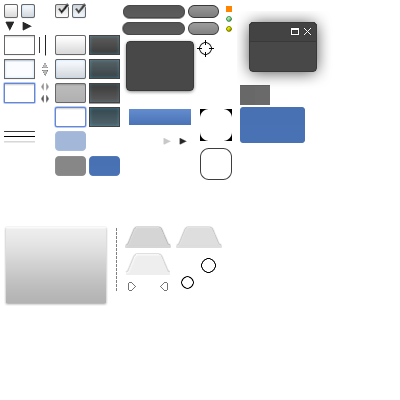
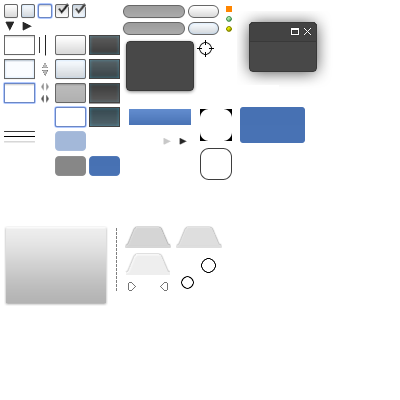
[UI] Checkbox implement

Changed region(s): [[0.3, 0.0, 0.57, 0.09], [0.6, 0.21, 0.69, 0.27], [0.09, 0.0, 0.15, 0.06]]

diff --git a/src/ui/checkbox.cpp b/src/ui/checkbox.cpp
@@ -1,0 +1,63 @@
+/*
+ * E2DIT - is a 2D Map Editor to create a levels for 2d games
+ * Copyright (C) 2015 Kabylin Andrey <andrey@kabylin.ru>
+
+ * This file is part of E2DIT-UI.
+
+ * E2DIT-UI is free library: you can redistribute it and/or modify
+ * it under the terms of the GNU Lesser General Public License as
+ * published by the Free Software Foundation, either version 3 of
+ * the License, or (at your option) any later version.
+
+ * E2DIT-UI is distributed in the hope that it will be useful,
+ * but WITHOUT ANY WARRANTY; without even the implied warranty of
+ * MERCHANTABILITY or FITNESS FOR A PARTICULAR PURPOSE.   See the
+ * GNU Lesser General Public License for more details.
+
+ * You should have received a copy of the GNU Lesser General Public License
+ * along with E2DIT-UI. If not, see <http://www.gnu.org/licenses/>.
+ *
+ * Author: Kabylin Andrey <andrey@kabylin.ru
+ */
+
+#include "ui/checkbox.h"
+
+#include "utility/renderer.h"
+#include "utility/string.h"
+
+void UICheckbox::render() {
+
+	UIElement::render();
+	updateAbsPos();
+
+	/* Tables Indices */
+
+	int n  = 0; int tn = enter ? 2 : 0;
+
+	if (checked) n = enter ? 3 : 1;
+	else         n = enter ? 2 : 0;
+
+	renderElement (n, absLeft, absTop, iWidths[0], iHeights[0], boxElement.get());
+
+	if (focused) {
+
+		renderElement (4, absLeft+focusOffsets[0], absTop+focusOffsets[1], iWidths[0], iHeights[0], focusElement.get());
+
+	}
+
+	/* Render Text */
+
+	if (autoSize)
+		width = iWidths[0]+ftglGetTextWidth(manager->theme->font, caption)+textOffsets[n]+10;
+
+	manager->atlasShader->unbind();
+	renderText (manager->theme->font, &textColors[n], absLeft+iWidths[0]+textOffsets[tn], absTop+manager->theme->fontHeight+textOffsets[tn+1], caption);
+	manager->atlasShader->bind();
+
+}
+
+void UICheckbox::mouseDown (int x, int y, int button) {
+
+	if (enter) checked = !checked;
+
+}

diff --git a/include/ui/checkbox.h b/include/ui/checkbox.h
@@ -1,0 +1,55 @@
+/*
+ * E2DIT - is a 2D Map Editor to create a levels for 2d games
+ * Copyright (C) 2015 Kabylin Andrey <andrey@kabylin.ru>
+
+ * This file is part of E2DIT-UI.
+
+ * E2DIT-UI is free library: you can redistribute it and/or modify
+ * it under the terms of the GNU Lesser General Public License as
+ * published by the Free Software Foundation, either version 3 of
+ * the License, or (at your option) any later version.
+
+ * E2DIT-UI is distributed in the hope that it will be useful,
+ * but WITHOUT ANY WARRANTY; without even the implied warranty of
+ * MERCHANTABILITY or FITNESS FOR A PARTICULAR PURPOSE.   See the
+ * GNU Lesser General Public License for more details.
+
+ * You should have received a copy of the GNU Lesser General Public License
+ * along with E2DIT-UI. If not, see <http://www.gnu.org/licenses/>.
+ *
+ * Author: Kabylin Andrey <andrey@kabylin.ru
+ */
+
+#include "ui/element.h"
+#include "ui/manager.h"
+
+#include "renderer/base_object.h"
+
+class UICheckbox : public UIElement {
+protected:
+	std::unique_ptr<BaseObject> boxElement   = std::make_unique<BaseObject> (manager->uiDataRender, app->screenCamera.get());
+	std::unique_ptr<BaseObject> focusElement = std::make_unique<BaseObject> (manager->uiDataRender, app->screenCamera.get());
+
+	int focusOffsets[2]; // Left, Top
+
+public:
+
+	std::wstring caption = L"Test Checkbox";
+	bool checked  = false;
+	bool autoSize = true;
+
+	virtual void precompute() override;
+	virtual void render()     override;
+
+	/* Events */
+
+	virtual void mouseDown (int x, int y, int button) override;
+
+	UICheckbox (UIManager *manager) : UIElement (manager) {
+
+		this->manager = manager;
+		precompute();
+
+	}
+
+};

diff --git a/src/ui/cursor.mm b/src/ui/cursor.mm
@@ -29,13 +29,12 @@ void UICursor::set (CursorIco cur) {
 	}
 
 	NSCursor* defaultCursor = [NSCursor currentCursor];
-	NSCursor* cursor;//        = [NSCursor pointingHandCursor];
+	NSCursor* cursor;
 
 	/* Get Cursor Ico */
 
 	switch (cur) {
 
-		case CursorIco::Wait         : break;
 		case CursorIco::Hand         : cursor = [NSCursor pointingHandCursor];    break;
 		case CursorIco::Normal       : cursor = [NSCursor arrowCursor];           break;
 		case CursorIco::IBeam        : cursor = [NSCursor IBeamCursor];           break;
@@ -60,22 +59,22 @@ void UICursor::set (CursorIco cur) {
 
 	}
 
-	/* Set Cursor */
+	[cursor set];
 
-	NSRect rect = view.frame;
+	//NSRect rect = view.frame;
 
-	[view addCursorRect:rect cursor:cursor];
-	[cursor setOnMouseEntered:YES];
+	//[view addCursorRect:rect cursor:cursor];
+	//[cursor setOnMouseEntered:YES];
 
-	[view addCursorRect:rect cursor:defaultCursor];
-	[defaultCursor setOnMouseExited:YES];
+	//[view addCursorRect:rect cursor:defaultCursor];
+	//[defaultCursor setOnMouseExited:YES];
 
-	NSPoint mousePositionInWindow = [[view window] mouseLocationOutsideOfEventStream];
-	NSPoint mousePositionInView   = [view convertPoint:mousePositionInWindow
-									 fromView:nil]; // i.e. from the window.
+	//NSPoint mousePositionInWindow = [[view window] mouseLocationOutsideOfEventStream];
+	//NSPoint mousePositionInView   = [view convertPoint:mousePositionInWindow
+	//								 fromView:nil]; // i.e. from the window.
 
-	if ([view mouse:mousePositionInView inRect:view.frame]) {
-		[cursor set];
-	}
+	//if ([view mouse:mousePositionInView inRect:view.frame]) {
+	//[cursor set];
+	//}
 
 }

diff --git a/src/core/core.cpp b/src/core/core.cpp
@@ -21,6 +21,7 @@
  */
 
 #include "core.h"
+#include "ui/checkbox.h"
 
 using namespace boost::assign;
 
@@ -34,8 +35,8 @@ Core::Core() {
 	ftglSetFontFaceSize (font, 12, 12);
 	ftglSetFontCharMap  (font, ft_encoding_unicode);
 
-	skin    = std::make_unique<Texture> ("../res/ui/skins/dark/controls.png");
-	uiTheme = std::make_unique<UITheme> ("../res/ui/skins/dark/controls.e2t", ReadType::Text, skin.get(), font);
+	skin    = std::make_unique<Texture> ("../res/ui/skins/light/controls.png");
+	uiTheme = std::make_unique<UITheme> ("../res/ui/skins/light/controls.e2t", ReadType::Text, skin.get(), font);
 	uiTheme->fontHeight = 12;
 
 	std::vector<std::string> atlasLocations; atlasLocations += "MVP", "Size", "Offset", "Texture", "Alpha";
@@ -112,7 +113,7 @@ Core::Core() {
 
 	p1->left   = 200;
 	p1->top    = 100;
-	p1->width  = 300;
+	p1->width  = 500;
 	p1->height = 400;
 	p1->background = UIPanel::Background::Action;
 	//p1->showScrollX = false;
@@ -130,7 +131,7 @@ Core::Core() {
 	//_p1->addElement (std::move(b1));
 	//_p1->addElement (std::move(b2));
 	//_p1->addElement (std::move(e1));
-	_p1->addElement (std::move(b3));
+	//_p1->addElement (std::move(b3));
 
 	std::unique_ptr<UIPanel> p2 = std::make_unique<UIPanel> (uiManager.get());
 
@@ -165,6 +166,12 @@ Core::Core() {
 
 	_p1->addElement (std::move(p3));
 	_p3->addElement (std::move(b1));
+
+	std::unique_ptr<UICheckbox> cb1 = std::make_unique<UICheckbox> (uiManager.get());
+	cb1->top = 100;
+	cb1->left = 50;
+
+	_p3->addElement (std::move(cb1));
 
 }
 

diff --git a/src/ui/panel.cpp b/src/ui/panel.cpp
@@ -268,7 +268,7 @@ void UIPanel::render() {
 		/* Draw Text */
 
 		manager->atlasShader->unbind();
-		renderText (manager->theme->font, textColor, absLeft+12+iWidths[n], absTop+headerHeight-(manager->theme->fontHeight >> 1), caption);
+		renderText (manager->theme->font, textColor, absLeft+12+iWidths[n], absTop+(headerHeight >> 1)+(manager->theme->fontHeight >> 1)-2, caption);
 		manager->atlasShader->bind();
 
 	}
@@ -560,27 +560,18 @@ void UIPanel::mouseWheel (int dx, int dy) {
 	UIElement::mouseWheel (dx, dy);
 	UIElement *el = manager->underMouse;
 
-	if (pressed(keyShift)) {
+	if (!over || ((el->canScroll && el->scrollElementWidth != 0) && el != this))
+		return;
 
-		if (!over || ((el->canScroll && el->scrollElementHeight != 0) && el != this))
-			return;
+	if (pressed(keyShift)) { // Inverse
 
-		if (wrapperWidth == width || !showScrollX)
-			return;
-
-		addScrollXByPx (-dy*scrollDelta);
-		addScrollYByPx (-dx*scrollDelta);
+		if (wrapperHeight > height && showScrollY) addScrollYByPx (-dx*scrollDelta);
+		if (wrapperWidth  > width  && showScrollX) addScrollXByPx (-dy*scrollDelta);
 
 	} else {
 
-		if (!over || ((el->canScroll && el->scrollElementWidth != 0) && el != this))
-			return;
-
-		if (wrapperHeight == height || !showScrollY)
-			return;
-
-		addScrollYByPx (-dy*scrollDelta);
-		addScrollXByPx (-dx*scrollDelta);
+		if (wrapperHeight > height && showScrollY) addScrollYByPx (-dy*scrollDelta);
+		if (wrapperWidth  > width  && showScrollX) addScrollXByPx (-dx*scrollDelta);
 
 	}
 

diff --git a/src/ui/precompute/checkbox.cpp b/src/ui/precompute/checkbox.cpp
@@ -1,0 +1,52 @@
+/*
+ * E2DIT - is a 2D Map Editor to create a levels for 2d games
+ * Copyright (C) 2015 Kabylin Andrey <andrey@kabylin.ru>
+
+ * This file is part of E2DIT-UI.
+
+ * E2DIT-UI is free library: you can redistribute it and/or modify
+ * it under the terms of the GNU Lesser General Public License as
+ * published by the Free Software Foundation, either version 3 of
+ * the License, or (at your option) any later version.
+
+ * E2DIT-UI is distributed in the hope that it will be useful,
+ * but WITHOUT ANY WARRANTY; without even the implied warranty of
+ * MERCHANTABILITY or FITNESS FOR A PARTICULAR PURPOSE.   See the
+ * GNU Lesser General Public License for more details.
+
+ * You should have received a copy of the GNU Lesser General Public License
+ * along with E2DIT-UI. If not, see <http://www.gnu.org/licenses/>.
+ *
+ * Author: Kabylin Andrey <andrey@kabylin.ru>
+ */
+
+#include "ui/checkbox.h"
+
+void UICheckbox::precompute() {
+
+	/* Leave */
+
+	precomputeElement (0, "checkboxleave", "unchecked");
+	precomputeElement (1, "checkboxleave", "checked");
+
+	/* Enter */
+
+	precomputeElement (2, "checkboxenter", "unchecked");
+	precomputeElement (3, "checkboxenter", "checked");
+
+	/* Focus */
+
+	precomputeElement  (4, "checkboxfocus", "element");
+    precomputeIntArray ("checkboxfocus", "offsets", focusOffsets, 2);
+
+	/* Text */
+
+	precomputeText    (0, "checkboxleave");
+	precomputeText    (1, "checkboxenter");
+
+	//
+
+	width  = iWidths[0];
+	height = iHeights[0];
+
+}

diff --git a/include/ui/button.h b/include/ui/button.h
@@ -18,23 +18,16 @@
  * along with E2DIT-UI. If not, see <http://www.gnu.org/licenses/>.
  *
  * Author: Kabylin Andrey <andrey@kabylin.ru
-> */
+ */
 
 #ifndef E2DIT_UI_BUTTON_H
 #define E2DIT_UI_BUTTON_H
 
 #include <string>
-#include <vector>
-#include <glm/glm.hpp>
-
-#include "utility/config.h"
-#include "utility/renderer.h"
 
 #include "ui/element.h"
 #include "ui/manager.h"
 
-#include "renderer/shader.h"
-#include "renderer/data_render.h"
 #include "renderer/base_object.h"
 
 class UIButton : public UIElement {

diff --git a/src/ui/button.cpp b/src/ui/button.cpp
@@ -22,6 +22,9 @@
 
 #include "ui/button.h"
 
+#include "utility/config.h"
+#include "utility/renderer.h"
+
 /**
  * Render Button
  */
@@ -35,6 +38,7 @@ void UIButton::render () {
 	//	glUniform1f (manager->atlasShader->locations["Alpha"], manager->disabledAlpha);
 
 	/* Tables Indices */
+
 	int n  = 0; int tn = 0; int to = 0;
 
 	if (enter) { n = 3; tn = 1; to = 2; }
